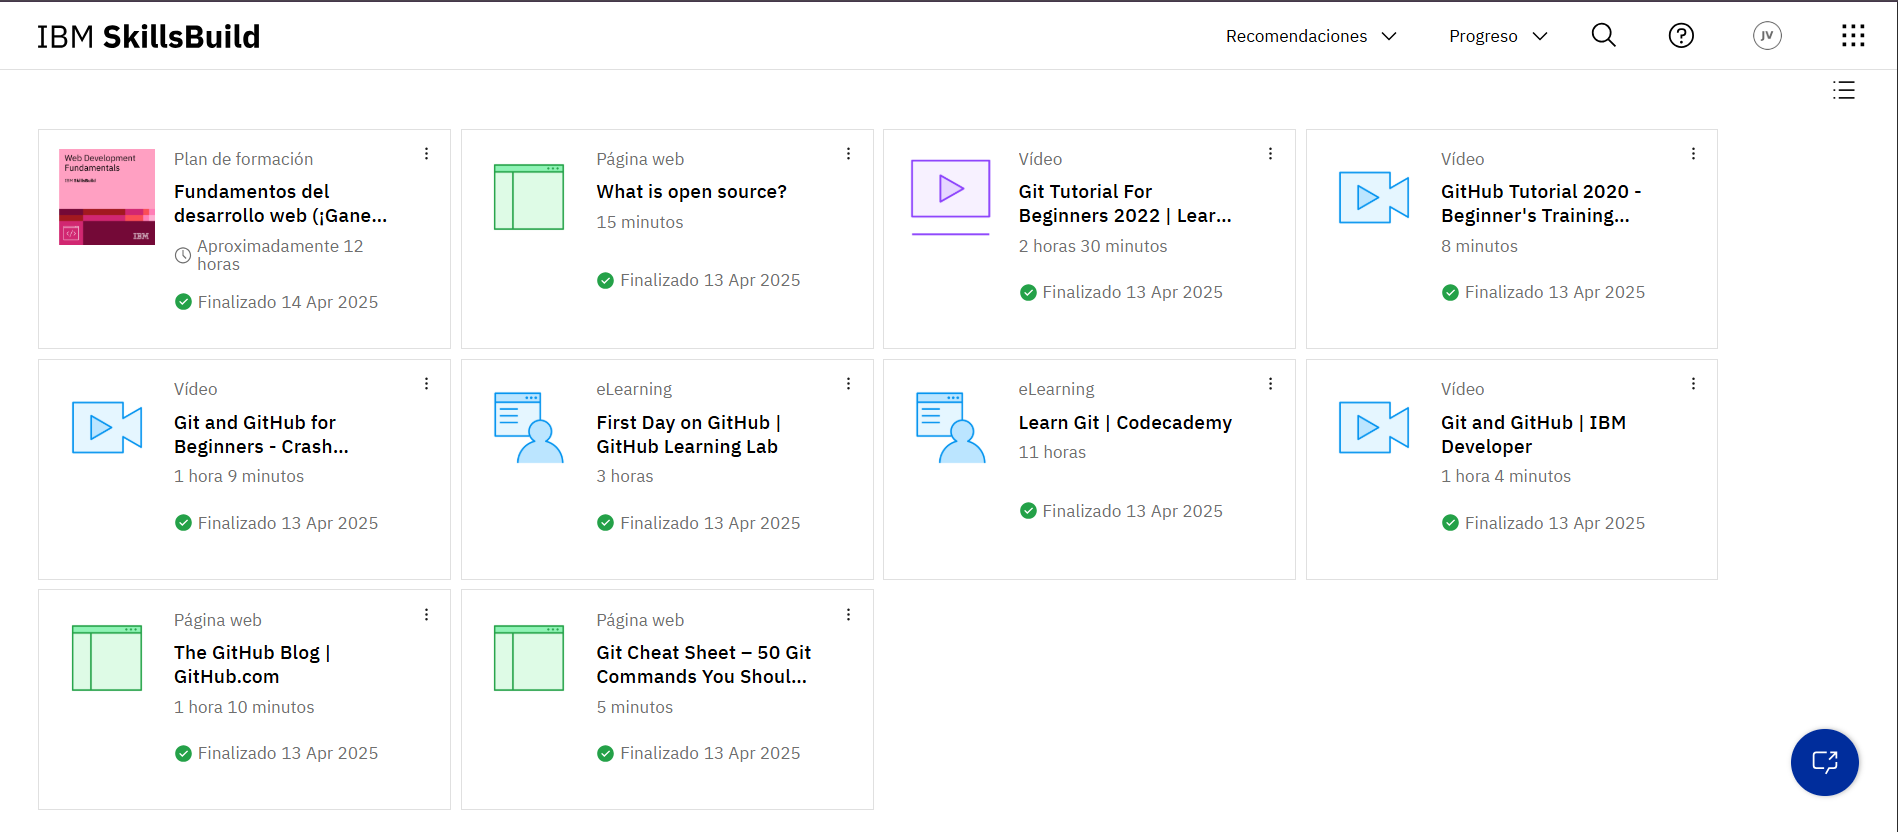
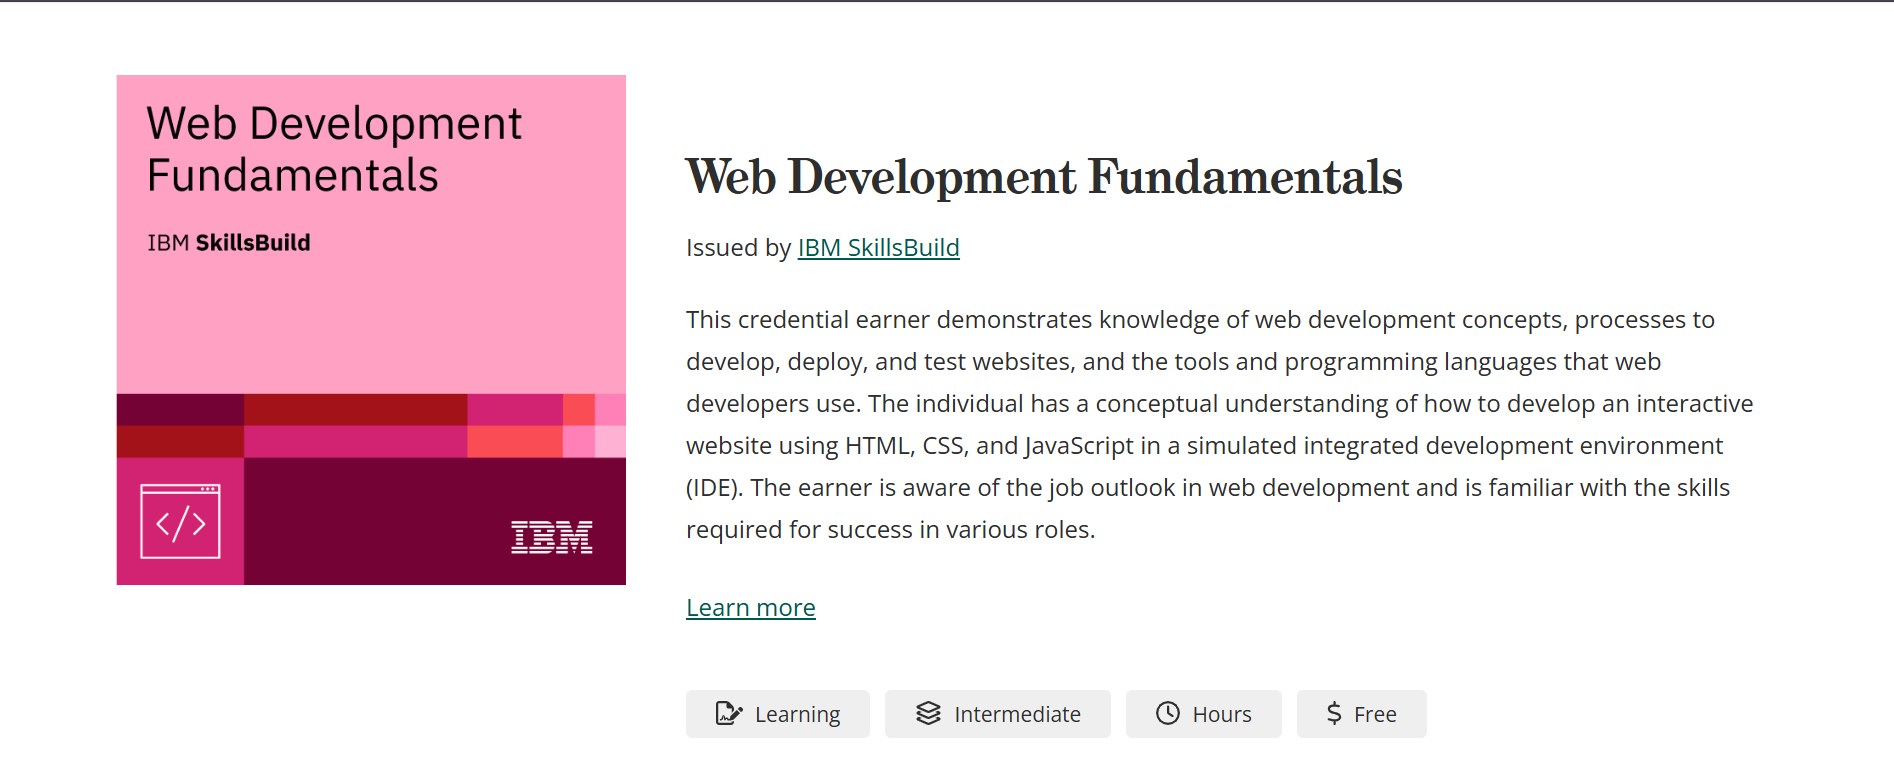
Ultima actualización - Curso Completo

diff --git a/02-fundamentals-of-web-development/README.md b/02-fundamentals-of-web-development/README.md
@@ -29,6 +29,8 @@ Después de completar **Fundamentos del desarrollo web**, debería ser capaz de:
 
 Los conocimientos y las habilidades de estos cursos se basan unos en otros, por lo que SkillsBuild recomienda completar los cursos en el orden en que se presentan.
 
-![Curso_Final](image.png)
+![Curso_Final](image2.png)
 ![Curso_Final](image1.png)
 
+
+![Credly_Credencial](image.png)
